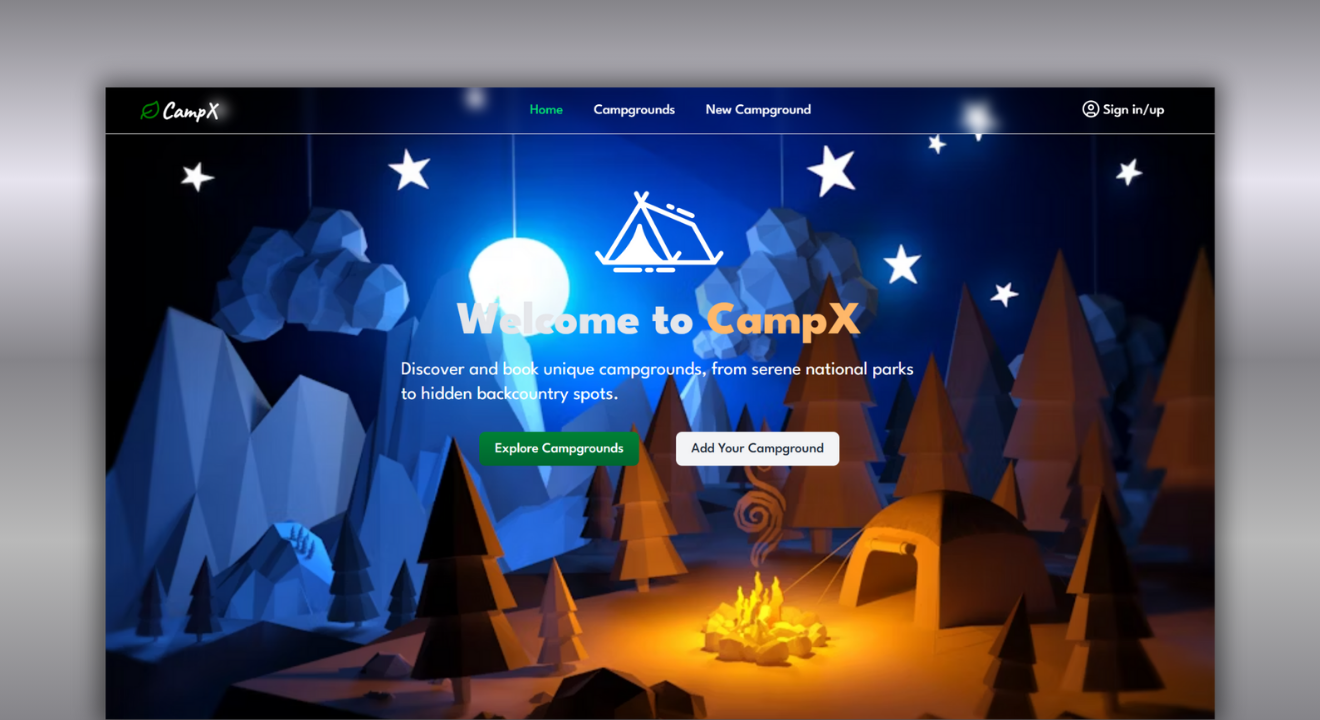
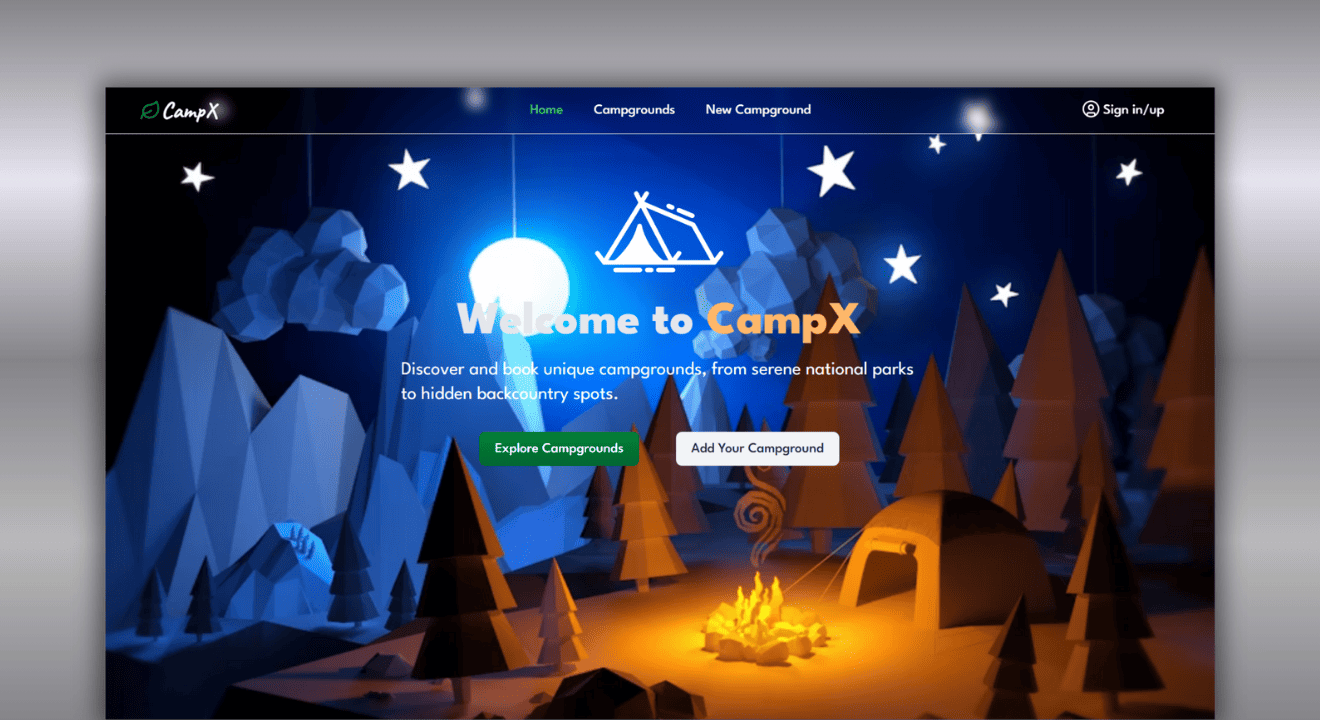
chore: update projects content

diff --git a/src/data/projectsData.js b/src/data/projectsData.js
@@ -1,14 +1,17 @@
-import blognest from "../assets/projects/blognest.PNG";
-import myJournal from "../assets/projects/myJournal.PNG";
+import blognest from "../assets/projects/blognest.png";
+import myJournal from "../assets/projects/myJournal.png";
 import campX from "../assets/projects/CampX.png";
 import logofy from "../assets/projects/logofy.png"
 import linkits from "../assets/projects/linkits.png"
 import geminiClone from "../assets/projects/geminiClone.png"
+import codenest from "../assets/projects/code-nest.png"
+import pretext from "../assets/projects/pretext.png"
+
 
 export const projectsData = [
   {
     title: "Linkits",
-    description: "Linkits is a curated developer resources platform where users can discover useful tools, job platforms, interview prep resources, AI tools, and free courses — all in one place. It supports Google authentication and allows users to explore categorized links through a clean, minimal interface.",
+    description: "Linkits is a curated developer resources platform where users can discover useful tools, job platforms, interview prep resources, AI tools, and free courses, all in one place. It supports Google authentication and allows users to explore categorized links through a clean, minimal interface.",
     image: linkits,
     tags: [
       "Next.js",
@@ -18,10 +21,24 @@ export const projectsData = [
       "NextAuth",
       "Google OAuth",
     ],
-    liveUrl: "",
+    liveUrl: "https://linkits.piyushh.tech/",
     githubUrl: "https://github.com/Piyush-20045/linkits",
-    status: "In Progress",
-    category: "in-progress"
+    status: "",
+    category: "full-stack",
+    features: [
+      "Built a categorized directory of useful developer resources and tools",
+      "Implemented Google OAuth authentication using NextAuth",
+      "Created bookmark feature with personalized user dashboard",
+      "Designed animated homepage hero section using tsParticles",
+      "Responsive black and white modern UI with category filtering",
+    ],
+    whatILearned: [
+      "Implemented OAuth authentication flow with Google Sign-In",
+      "Learned how NextAuth MongoDB Adapter manages users and sessions",
+      "Understood difference between Mongoose and MongoDB Adapter use-cases",
+      "Built APIs with Next.js App Router and MongoDB integration",
+      "Improved state management, conditional UI rendering, and protected routes",
+    ],
   },
   {
     title: "Logofy",
@@ -128,6 +145,39 @@ export const projectsData = [
       "Implemented a rich text editor using React-Quill",
       "Added EmailJS integration for Contact page",
     ]
+  },
+  {
+    title: "CodeNest",
+    description: "A modern web development agency website built for a client to showcase services, portfolio work, pricing, testimonials, and contact details. Focused on clean UI, smooth user experience, and conversion-driven landing page design.",
+    image: codenest,
+    tags: ["Next.js", "React", "Tailwind CSS", "Framer Motion"],
+    liveUrl: "https://codenestt.vercel.app/",
+    githubUrl: "https://github.com/Piyush-20045/code-nest",
+    category: "vibe-coded",
+    features: [
+      "Modern landing page with hero, services, pricing, testimonials, and CTA sections",
+      "Responsive multi-page layout with About, Work, and Contact pages",
+      "Smooth animations and premium dark-themed UI design"
+    ],
+    whatILearned: [
+      "Building service-based websites with strong landing page structure",
+      "Creating responsive layouts and reusable UI sections",
+      "Improving design sense with modern animations and clean spacing"
+    ],
+  },
+  {
+    title: "Pretext Playground",
+    description: "A small interactive playground I built to try out Pretext - a text measurement library by Cheng Lou (creator of react-motion, ReasonML). Pretext bypasses expensive DOM reflows by calculating text layout using pure arithmetic, making real-time text wrapping possible at 60fps. I wanted to see what it feels like to build something with it, so I made this page where text reflows live around draggable objects.",
+    image: pretext,
+    tags: ["React", "Tailwind CSS", "Vanilla JS", "@chenglou/pretext"],
+    liveUrl: "https://pretext-playgroundd.vercel.app/",
+    githubUrl: "https://github.com/Piyush-20045/pretext-playground",
+    category: "vibe-coded",
+    features: ["Real-time text wrapping around draggable objects",
+      "Orb collision physics with explosion effects on click",
+      "Fully responsive with mobile-optimized layout",],
+    whatILearned: ["How Pretext decouples text measurement from the DOM using cached segment data and pure math",
+      "Building a requestAnimationFrame loop that ties physics, reflow, and rendering together"],
   },
   {
     title: "GeminiClone – Minimal AI Chat Interface",

diff --git a/src/components/projects/ProjectCard.jsx b/src/components/projects/ProjectCard.jsx
@@ -79,9 +79,11 @@ const ProjectCard = ({ project, index }) => {
               {tech}
             </span>
           ))}
-          <span className="h-fit px-2 py-1 bg-gray-200 dark:bg-gray-700 rounded text-gray-800 dark:text-gray-200">
-            {project.tags.length > 4 ? "+" + (project.tags.length - 4) : ""}
-          </span>
+          {project.tags.length > 4 && (
+            <span className="h-fit px-2 py-1 bg-gray-200 dark:bg-gray-700 rounded text-gray-800 dark:text-gray-200">
+              +{project.tags.length - 4}
+            </span>
+          )}
         </div>
 
         {/* In Progress status */}

diff --git a/src/components/projects/Projects.jsx b/src/components/projects/Projects.jsx
@@ -18,7 +18,7 @@ const Projects = () => {
     all: "all",
     frontend: "frontend",
     "full-stack": "full-stack",
-    "in-progress": "in-progress",
+    "vibe-coded": "vibe-coded",
   };
 
   // Filter projects based on selected category
@@ -31,7 +31,7 @@ const Projects = () => {
     { id: "all", label: "All" },
     { id: "full-stack", label: "Fullstack" },
     { id: "frontend", label: "Frontend" },
-    { id: "in-progress", label: "In Progress" },
+    { id: "vibe-coded", label: "Vibe Coded" },
   ];
 
   return (